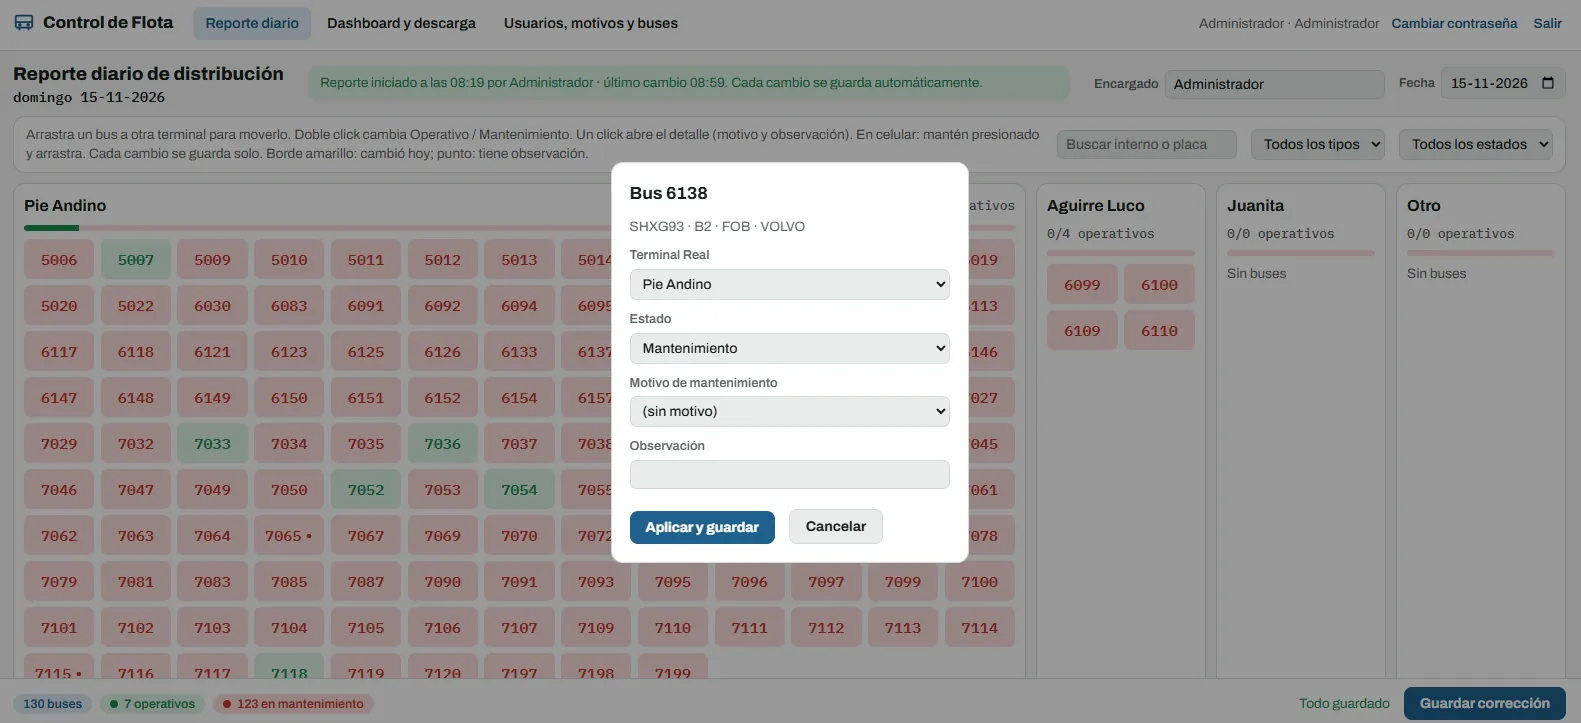
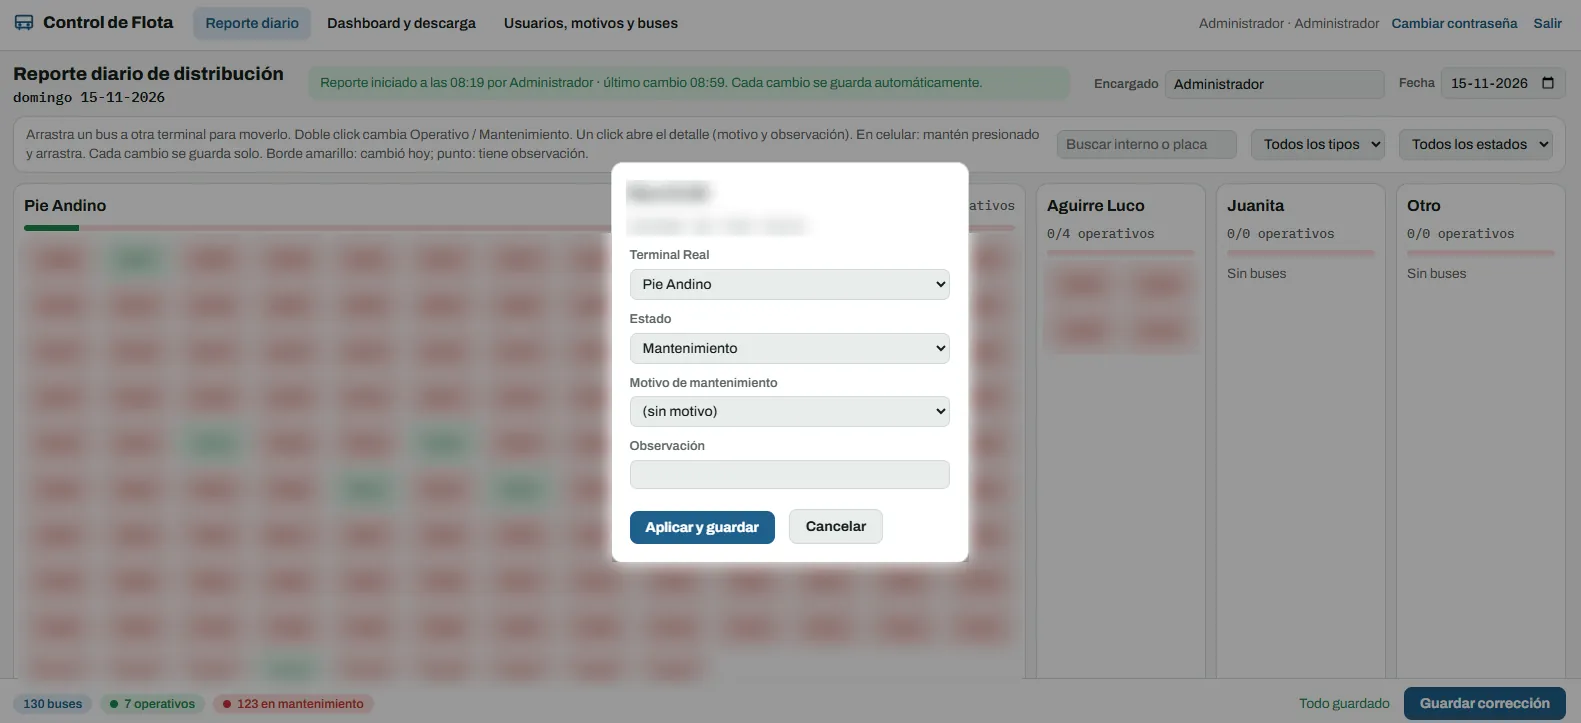
Difuminar números de bus y patente en capturas de Control de Flota
Claude-Session: https://claude.ai/code/session_011CJXVFBeRpdjyjxU3VfcQ2

diff --git a/sw.js b/sw.js
@@ -1,4 +1,4 @@
-const C="jv-v22",A=["./","index.html","manifest.webmanifest","icons/icon-192.png","icons/icon-512.png","icons/icon-180.png"];
+const C="jv-v23",A=["./","index.html","manifest.webmanifest","icons/icon-192.png","icons/icon-512.png","icons/icon-180.png"];
 self.addEventListener("install",e=>{e.waitUntil(caches.open(C).then(c=>c.addAll(A)));self.skipWaiting()});
 self.addEventListener("activate",e=>{e.waitUntil(caches.keys().then(k=>Promise.all(k.filter(x=>x!==C).map(x=>caches.delete(x)))));self.clients.claim()});
 self.addEventListener("fetch",e=>{const u=new URL(e.request.url);if(u.origin!==location.origin)return;e.respondWith(fetch(e.request).then(r=>{const c=r.clone();caches.open(C).then(x=>x.put(e.request,c));return r}).catch(()=>caches.match(e.request,{ignoreSearch:true})))});
